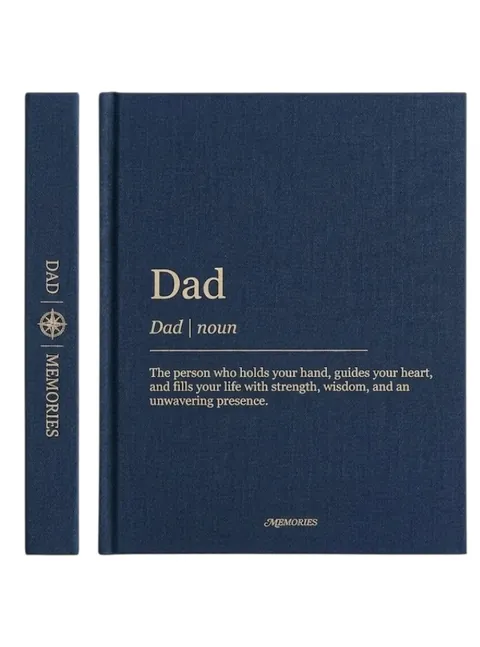
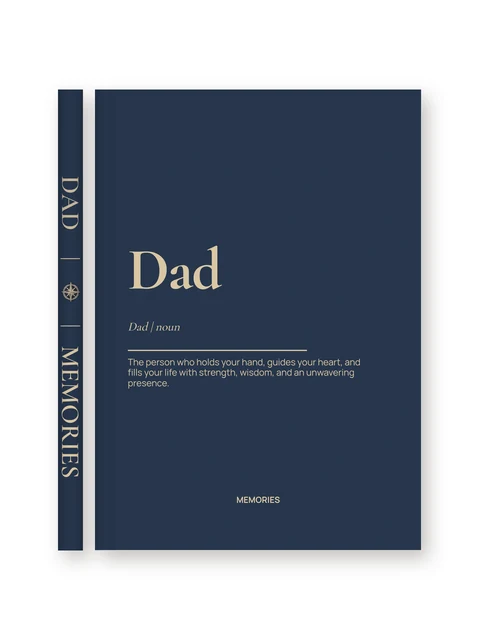
Template pictures made from the real templates (photo-free ones)
The home page and "Choose a template" showed pictures of each template that
were made separately: books of different sizes and places in the frame
(60% to 89% of the height), some differing from the real cover.

scripts/template-previews draws each template's cover with the site itself
(the PDF's print page, real fonts), then lays out its spine and front the
same way for all: same book size and place, same soft shadow, a rounded
spine and the cover's hinge. Done for the 11 templates without photo
frames; the 4 with photo frames keep their pictures until free photos are
added to fill them.

Claude-Session: https://claude.ai/code/session_019iW3qNmH4N4x87DfLWtU9k

Changed region(s): [[0.0312, 0.125, 1.0, 0.875], [0.5, 0.75, 0.6562, 0.8125]]

diff --git a/frontend/scripts/template-previews/render.py b/frontend/scripts/template-previews/render.py
@@ -1,0 +1,156 @@
+"""Makes the template pictures of the home page and of "Choose a template"
+(public/theme-covers/<template id>.webp) from the real templates: each cover
+is drawn by the site itself (the PDF's print page), then its spine and front
+are laid out the same way for every template — same book size, same place,
+same shadow.
+
+    cd frontend
+    npm run build
+    node scripts/template-previews/templates.mjs > /tmp/templates.json
+    python scripts/template-previews/render.py /tmp/templates.json
+
+Photo frames of a template are filled with the free photos in photos/ (see
+photos/CREDITS.md), in the order photos.json gives for that template.
+Needs Python's playwright and Pillow, and Google Fonts reachable (CHROMIUM=
+<path> picks the browser).
+"""
+import io
+import os
+import json
+import mimetypes
+import sys
+import urllib.request
+from pathlib import Path
+
+from PIL import Image, ImageChops, ImageFilter
+from playwright.sync_api import sync_playwright
+
+HERE = Path(__file__).resolve().parent
+FRONTEND = HERE.parents[1]
+BUILD = FRONTEND / "build"
+OUT = FRONTEND / "public" / "theme-covers"
+PHOTOS = HERE / "photos"
+ORIGIN = "http://preview.local"
+
+# The picture: 3:4, shown at up to 192 px wide (×2 for sharp screens, ×1.25 spare).
+W, H = 480, 640
+SCALE = 2  # rendered at twice the size, then reduced: smoother edges
+BOOK_H = 0.72  # the front cover's height, share of the picture's
+GAP = 0.025  # between spine and front, share of the picture's width
+PAGES = 40  # page count the spine width is based on
+
+
+def album_for(t, photo_files):
+    cover = json.loads(json.dumps(t["cover"]))
+    slots = [it for it in cover["extra_items"] if it.get("is_photo")]
+    for it, name in zip(slots, photo_files):
+        it["image_url"] = f"/preview-photos/{name}"
+        with Image.open(PHOTOS / name) as im:
+            it["photo_aspect"] = im.width / im.height
+    return {
+        "id": "preview",
+        "user_id": "preview",
+        "title": t["title"],
+        "cover_template_id": t["id"],
+        "size": "A4",
+        "orientation": "portrait",
+        "status": "ready",
+        "version": 0,
+        "country": "",
+        "cover": cover,
+        "pages": [{"id": f"p{i}", "layout": "single_full", "items": []} for i in range(PAGES)],
+        "photos": [],
+    }
+
+
+def serve(route, album):
+    path = route.request.url.split(ORIGIN, 1)[-1].split("?")[0] if route.request.url.startswith(ORIGIN) else None
+    url = route.request.url
+    if "/api/albums/preview" in url:
+        return route.fulfill(json=album)
+    if "/api/" in url:
+        return route.fulfill(json={})
+    if path is None:
+        # Google Fonts, fetched here rather than by the browser (which can't
+        # always get through a proxy); same browser name, for woff2 files.
+        req = urllib.request.Request(url, headers={"User-Agent": route.request.headers.get("user-agent", "")})
+        with urllib.request.urlopen(req, timeout=30) as res:
+            return route.fulfill(status=res.status, body=res.read(), content_type=res.headers.get("Content-Type"), headers={"Access-Control-Allow-Origin": "*"})
+    if path.startswith("/preview-photos/"):
+        f = PHOTOS / path.rsplit("/", 1)[1]
+    else:
+        f = BUILD / path.lstrip("/")
+        if not f.is_file():
+            f = BUILD / "app.html"
+    route.fulfill(body=f.read_bytes(), content_type=mimetypes.guess_type(f.name)[0] or "text/html")
+
+
+def handler(album):
+    return lambda route: serve(route, album)
+
+
+def shot(locator):
+    return Image.open(io.BytesIO(locator.screenshot(animations="disabled"))).convert("RGB")
+
+
+def shade(img, profile):
+    """Darkens img across its width: profile(t) is the brightness (0–1) at
+    t, 0 on the left edge, 1 on the right."""
+    w, h = img.size
+    row = Image.new("L", (w, 1))
+    row.putdata([round(255 * profile(x / max(1, w - 1))) for x in range(w)])
+    mask = row.resize((w, h)).convert("RGB")
+    return ImageChops.multiply(img, mask)
+
+
+def compose(spine, front):
+    cw, ch = W * SCALE, H * SCALE
+    fh = round(ch * BOOK_H)
+    fw = round(front.width * fh / front.height)
+    sw = max(1, round(spine.width * fh / spine.height))
+    gap = round(cw * GAP)
+    x0 = (cw - (sw + gap + fw)) // 2
+    y0 = (ch - fh) // 2
+    canvas = Image.new("RGB", (cw, ch), "white")
+    # soft shadow under each piece, a little to the right and down
+    shadow = Image.new("L", (cw, ch), 0)
+    for x, w in ((x0, sw), (x0 + sw + gap, fw)):
+        shadow.paste(80, (x + 6 * SCALE, y0 + 8 * SCALE, x + w + 6 * SCALE, y0 + fh + 8 * SCALE))
+    shadow = shadow.filter(ImageFilter.GaussianBlur(9 * SCALE))
+    canvas.paste((60, 50, 40), (0, 0), shadow)
+    # a rounded spine (darker at its edges) and the cover's hinge, so the
+    # flat covers read as a book
+    spine = shade(spine.resize((sw, fh), Image.LANCZOS), lambda t: 0.8 + 0.2 * (1 - (2 * t - 1) ** 2))
+    front = shade(front.resize((fw, fh), Image.LANCZOS), lambda t: 1 - 0.12 * max(0.0, 1 - t / 0.035) - 0.05 * max(0.0, 1 - abs(t - 0.05) / 0.015))
+    canvas.paste(spine, (x0, y0))
+    canvas.paste(front, (x0 + sw + gap, y0))
+    return canvas.resize((W, H), Image.LANCZOS)
+
+
+def main(templates_json):
+    templates = json.loads(Path(templates_json).read_text())
+    photo_plan = json.loads((HERE / "photos.json").read_text()) if (HERE / "photos.json").is_file() else {}
+    only = set(sys.argv[2:])
+    with sync_playwright() as p:
+        browser = p.chromium.launch(executable_path=os.environ.get("CHROMIUM") or None)
+        page = browser.new_page(viewport={"width": 1400, "height": 1000}, device_scale_factor=SCALE)
+        for t in templates:
+            if only and t["id"] not in only:
+                continue
+            album = album_for(t, photo_plan.get(t["id"], []))
+            page.unroute("**/*")
+            page.route("**/*", handler(album))
+            page.goto(f"{ORIGIN}/print/preview?auth=preview", wait_until="load")
+            page.locator('[data-print-ready="true"]').wait_for(state="attached", timeout=60000)
+            sheet = page.locator(".cover-sheet").first
+            page.evaluate("document.fonts.ready")
+            page.wait_for_timeout(1500)  # titles fit themselves to their box
+            parts = sheet.locator(":scope > div")
+            out = compose(shot(parts.nth(0)), shot(parts.nth(2)))
+            out.save(OUT / f"{t['id']}.webp", "WEBP", quality=88, method=6)
+            print("made", t["id"])
+        browser.close()
+
+
+if __name__ == "__main__":
+    main(sys.argv[1])
